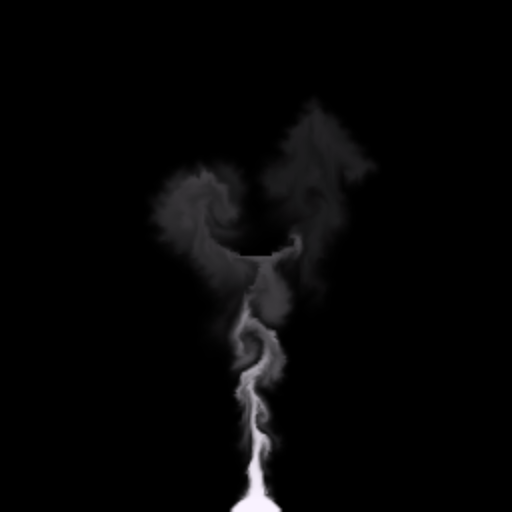
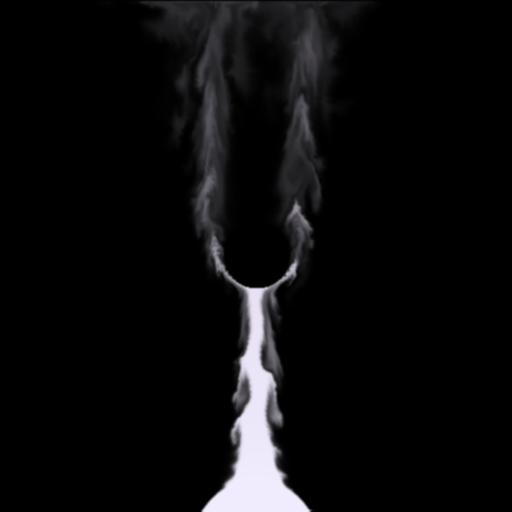
Added smoke credits

Changed region(s): [[0.2812, 0.0, 0.7188, 1.0], [0.5, 0.3438, 0.5312, 0.375]]

diff --git a/examples/smoke/smoke.py b/examples/smoke/smoke.py
@@ -4,28 +4,31 @@
 # Copyright (c) 2014, Nicolas P. Rougier
 # Distributed under the (new) BSD License. See LICENSE.txt for more info.
 # -----------------------------------------------------------------------------
+# Porting of the Fluid demo by Philip Prideout (c) 2010
+# Originals sources and explanation on http://prideout.net/blog/?p=58
+# -----------------------------------------------------------------------------
 import numpy as np
 from glumpy import app, gloo, gl, shaders, data
 
 # Constants
 # -------------------------------------
 CellSize               = 1.25
-ViewportWidth          = 2*512
-ViewportHeight         = 2*512
-GridWidth              = 256 # WARN: This is static in shaders
-GridHeight             = 256 # WARN: This is static in shaders
+ViewportWidth          = 512
+ViewportHeight         = 512
+GridWidth              = 512
+GridHeight             = 512
 SplatRadius            = GridWidth / 8.0
-AmbientTemperature     = 0.0
+AmbientTemperature     = -1.0
 ImpulseTemperature     = 10.0
 ImpulseDensity         = 1.0
 NumJacobiIterations    = 40
 TimeStep               = 0.125
-SmokeBuoyancy          = 1.0
+SmokeBuoyancy          = 1.00
 SmokeWeight            = 0.05
 GradientScale          = 1.125 / CellSize
 TemperatureDissipation = 0.99
 VelocityDissipation    = 0.99
-DensityDissipation     = 0.995
+DensityDissipation     = 0.9995
 ImpulsePosition        = GridWidth/2, -int(SplatRadius/2)
 PositionSlot           = 0
 
@@ -34,9 +37,9 @@ window = app.Window(ViewportWidth, ViewportHeight)
 
 
 class Surface(object):
-    def __init__(self, width, height, depth):
+    def __init__(self, width, height, depth, interpolation=gl.GL_NEAREST):
         self.texture = np.zeros((height,width,depth), np.float32).view(gloo.Texture2D)
-        self.texture.interpolation = gl.GL_NEAREST
+        self.texture.interpolation = interpolation
         self.framebuffer = gloo.FrameBuffer(color=self.texture)
         self.clear()
 
@@ -53,9 +56,9 @@ class Surface(object):
         self.framebuffer.deactivate()
 
 class Slab(object):
-    def __init__(self, width, height, depth):
-        self.Ping = Surface(width, height, depth)
-        self.Pong = Surface(width, height, depth)
+    def __init__(self, width, height, depth, interpolation=gl.GL_NEAREST):
+        self.Ping = Surface(width, height, depth, interpolation)
+        self.Pong = Surface(width, height, depth, interpolation)
 
     def swap(self):
         self.Ping, self.Pong = self.Pong, self.Ping
@@ -67,11 +70,11 @@ def Program(fragment):
 
 
 Velocity = Slab(GridWidth, GridHeight, 2)
-Density = Slab(GridWidth, GridHeight, 1)
+Density = Slab(GridWidth, GridHeight, 1, gl.GL_LINEAR)
 Pressure = Slab(GridWidth, GridHeight, 1)
-Temperature = Slab(GridWidth, GridHeight, 1)
+Temperature = Slab(GridWidth, GridHeight, 1, gl.GL_LINEAR)
 Divergence = Surface(GridWidth, GridHeight, 3)
-Obstacles = Surface(GridWidth, GridHeight, 3)
+Obstacles = Surface(GridWidth, GridHeight, 3, gl.GL_LINEAR)
 
 prog_gradient = Program("gradient.frag")
 prog_jacobi = Program("jacobi.frag")
@@ -86,6 +89,11 @@ fragment = (shaders.get_file('spatial-filters.frag'), "./visualize.frag")
 prog_visualize = Program(fragment)
 
 prog_advect["InverseSize"] = 1.0 / GridWidth, 1.0 / GridHeight
+prog_divergence["InverseSize"] = 1.0 / GridWidth, 1.0 / GridHeight
+prog_gradient["InverseSize"] = 1.0 / GridWidth, 1.0 / GridHeight
+prog_buoyancy["InverseSize"] = 1.0 / GridWidth, 1.0 / GridHeight
+prog_jacobi["InverseSize"] = 1.0 / GridWidth, 1.0 / GridHeight
+prog_fill["InverseSize"] = 1.0 / GridWidth, 1.0 / GridHeight
 prog_advect["TimeStep"] = TimeStep
 prog_jacobi["Alpha"] =  -CellSize * CellSize
 prog_jacobi["InverseBeta"] = 0.25
@@ -93,7 +101,6 @@ prog_gradient["GradientScale"] = GradientScale
 prog_divergence["HalfInverseCellSize"] = 0.5 / CellSize
 prog_splat["Radius"] = SplatRadius
 prog_splat["Point"] = ImpulsePosition
-
 prog_buoyancy["AmbientTemperature"] = AmbientTemperature
 prog_buoyancy["TimeStep"] = TimeStep
 prog_buoyancy["Sigma"] = SmokeBuoyancy
@@ -154,7 +161,7 @@ def ClearSurface(surface, v):
     gl.glClear(gl.GL_COLOR_BUFFER_BIT)
     surface.deactivate()
 
-def disc(shape=(256,256), center=(128,128), radius = 64):
+def disc(shape=(256,256), center=(128,128), radius = 96):
     def distance(x,y):
         return np.sqrt((x-center[0])**2+(y-center[1])**2)
     D = np.fromfunction(distance,shape)
@@ -166,9 +173,15 @@ def CreateObstacles(dest, width, height):
     gl.glClearColor(0, 0, 0, 0)
     gl.glClear(gl.GL_COLOR_BUFFER_BIT)
 
-    T = np.ones((height,width,4), np.float32).view(gloo.Texture2D)
-    T[+1:-1,+1:-1] = 0.0
+    T = np.ones((height,width,3), np.float32).view(gloo.Texture2D)
 
+    T[+1:-1,+1:-1] = 0.0
+    T[...,0] += disc(shape = (GridHeight,GridWidth),
+                     center = (GridHeight/2,GridWidth/2),
+                     radius = 32)
+    T[...,2] += -2*disc(shape = (GridHeight,GridWidth),
+                        center = (GridHeight/2,GridWidth/2),
+                        radius = 32)
     prog_fill["Sampler"] = T
     prog_fill.draw(gl.GL_TRIANGLE_STRIP)
     dest.deactivate()
@@ -219,10 +232,8 @@ def on_draw(dt):
     prog_visualize['u_data']   = Density.Ping.texture
     prog_visualize['u_shape']  = Density.Ping.texture.shape[1], Density.Ping.texture.shape[0]
     prog_visualize['u_kernel'] = data.get("spatial-filters.npy")
-
     prog_visualize["Sampler"] = Density.Ping.texture
-    prog_visualize["Sampler"].interpolation = gl.GL_LINEAR
-    prog_visualize["FillColor"] = 0.95, 0.92, 1.00
+    prog_visualize["FillColor"] = 0.95, 0.925, 1.00
     prog_visualize["Scale"] =  1.0/window.width, 1.0/window.height
     prog_visualize.draw(gl.GL_TRIANGLE_STRIP)
 

diff --git a/setup.py b/setup.py
@@ -7,8 +7,8 @@
 # the file COPYING, distributed as part of this software.
 #-----------------------------------------------------------------------------
 import os
-# import numpy
-# from Cython.Distutils import build_ext
+import numpy
+from Cython.Distutils import build_ext
 from distutils.core import setup, Extension
 
 if __name__ == "__main__":
@@ -70,9 +70,9 @@ if __name__ == "__main__":
               'glumpy.shaders.collections': ['*.vert','*.frag', "*.geom", "*.glsl"]
           },
 
-#          cmdclass={'build_ext': build_ext},
-#          ext_modules=[Extension("glumpy.ext.sdf",
-#                                 sources=["glumpy/ext/sdf/_sdf.pyx",
-#                                          "glumpy/ext/sdf/sdf.c"],
-#                                 include_dirs=[numpy.get_include()])],
+          cmdclass={'build_ext': build_ext},
+          ext_modules=[Extension("glumpy.ext.sdf",
+                                 sources=["glumpy/ext/sdf/_sdf.pyx",
+                                          "glumpy/ext/sdf/sdf.c"],
+                                 include_dirs=[numpy.get_include()])],
 )

diff --git a/examples/sdf/glyph-collection.py b/examples/sdf/glyph-collection.py
@@ -18,7 +18,6 @@ window = gp.Window(width=700, height=700)
 @window.event
 def on_draw(dt):
     global theta, dtheta
-
     gl.glClear(gl.GL_COLOR_BUFFER_BIT)
     C.draw()
     theta += dtheta
@@ -79,7 +78,7 @@ jabberwocky = (
 "All mimsy were the borogoves,\n"
 "  And the mome raths outgrabe.\n" )
 
-font = Font("Vera.ttf")
+font = Font("OpenSans-Regular.ttf")
 
 C = gp.GlyphCollection()
 C.append(jabberwocky, font)
@@ -89,7 +88,7 @@ C['u_kernel'] = np.load("spatial-filters.npy")
 C['atlas_data'] = font.atlas
 C['atlas_data'].interpolation = gl.GL_LINEAR
 C['atlas_shape'] = font.atlas.shape[1],font.atlas.shape[0]
-C['color'] = 1,0,0,1
+C['color'] = 0,0,0,1
 C['scale'] = 1.0
 
 gl.glClearColor(1.0, 1.0, 1.0, 1.0)

diff --git a/glumpy/graphics/collection/glyph_collection.py b/glumpy/graphics/collection/glyph_collection.py
@@ -21,17 +21,20 @@ class GlyphCollection(Collection):
 
     # This cannot be changed (shader code depends on it)
     dtypes = [ ('position',  np.float32, 2),
+               ('translate', np.float32, 2),
                ('texcoord',  np.float32, 2),
                ('color',     np.float32, 4) ]
 
     # Default variable scopes
     scopes = { 'position'   : '!local',
                'texcoord'   : '!local',
+               'translate'  : 'shared',
                'color'      : 'shared' }
 
     # Default variable values
     defaults = { 'position' : (0,0),
                  'texcoord' : (0,0),
+                 'translate': (0,0),
                  'color'    : (0,0,0,1) }
 
 

diff --git a/examples/sdf/font.py b/examples/sdf/font.py
@@ -7,8 +7,7 @@ import sys
 import numpy as np
 from freetype import *
 from scipy.ndimage.interpolation import zoom
-
-from sdf import compute_sdf
+from glumpy.ext.sdf import compute_sdf
 from glumpy.gloo.atlas import Atlas
 
 
